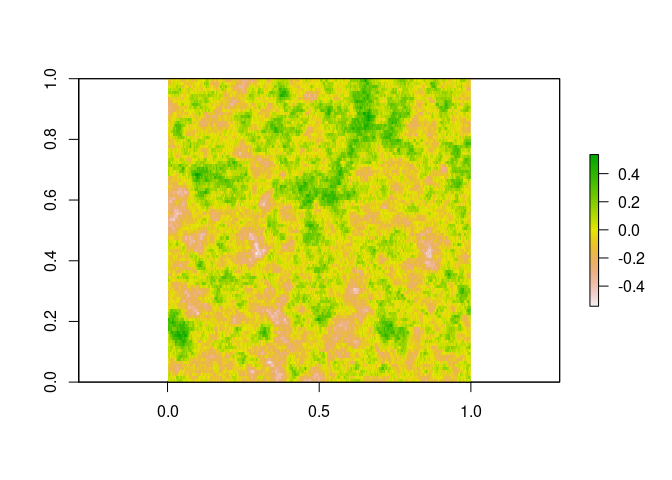
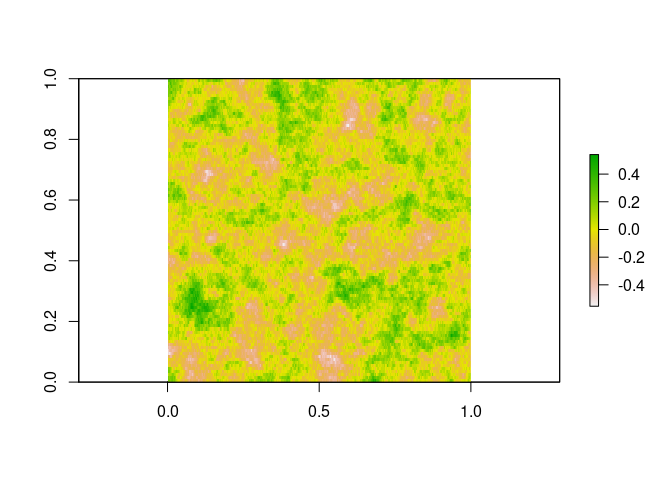
fixed some animation code

diff --git a/animated_tree.md b/animated_tree.md
@@ -23,81 +23,21 @@ fractal_tree <- random_trees(splits = 8, children = 2, angle = pi/4, scale_angle
 
 # Swaying Tree
 
-``` r
-swaying_tree <- function(fractal_tree, var = 0.02, scale = 0.4){
+Generates a random field to create a GIF animation of a tree “swaying”
+in the wind.
 
-  xlim <- c((min(fractal_tree$tree$X) - 0.1*abs(min(fractal_tree$tree$X))),
-            (max(fractal_tree$tree$X) + 0.1*abs(max(fractal_tree$tree$X))))
-  ylim <- c((min(fractal_tree$tree$Z) - 0.1*abs(min(fractal_tree$tree$Z))),
-            (max(fractal_tree$tree$Z) + 0.1*abs(max(fractal_tree$tree$Z))))
-  
-  level_gen_size <- fractal_tree$fun_variables$level_gen_size
-  branch_count <- fractal_tree$fun_variables$branch_count
-  children <- fractal_tree$fun_variables$children
-  splits <- fractal_tree$fun_variables$splits
-  family_tree <- fractal_tree$fun_variables$family_tree
-  branch_route_count <- fractal_tree$fun_variables$branch_route_count
-  
-  model <- RandomFields::RMexp(var = var, scale = scale)
-  
-  x <- seq(0, 10, length.out = 50)
-  y <- seq(0, 10, length.out = branch_count)
-  simu <- suppressMessages(as.matrix(RandomFields::RFsimulate(model, x, y, grid=TRUE)))
-  
-  rename <- function(x){
-    return(name <- paste('00', x,'plot.png', sep=''))
-  }
-  
-  path <- fs::path("swaying_trees")
-  suppressMessages(usethis::use_directory(path))
-  
-  for(i in 0:49){
-    name <- rename(i+1)
-    wind_angles <- simu[i+1,]/
-      rep((fractal_tree$fun_variables$splits+1):1, times = c(1,cumprod(fractal_tree$fun_variables$children)))^1.8
-    
-    X_coords <- fractal_tree$fun_variables$unstacked_X_coords %*% diag(cos(c(wind_angles))) - 
-      fractal_tree$fun_variables$unstacked_Z_coords %*% diag(sin(c(wind_angles)))
-    Z_coords <- fractal_tree$fun_variables$unstacked_X_coords %*% diag(sin(c(wind_angles))) +
-      fractal_tree$fun_variables$unstacked_Z_coords %*% diag(cos(c(wind_angles)))
-    
-    branch_delta_X <- rep(c(0, X_coords[100,1:(sum(rev(level_gen_size)[-1]))]),
-                          c(1, rep(children, level_gen_size[-(splits+1)])))
-    X_matrix <- t(apply(matrix(branch_delta_X[family_tree], nrow = splits+1), 2, cumsum))
-    branch_start_X <- c(X_matrix)[cumsum(c(1,branch_route_count[-branch_count]))]
-    X_coords_stacked <- X_coords + matrix(rep(branch_start_X, each = 100), nrow = 100)
-    
-    branch_delta_Z <- rep(c(0, Z_coords[100,1:(sum(rev(level_gen_size)[-1]))]),
-                          c(1, rep(children, level_gen_size[-(splits+1)])))
-    Z_matrix <- t(apply(matrix(branch_delta_Z[family_tree], nrow = splits+1), 2, cumsum))
-    branch_start_Z <- c(Z_matrix)[cumsum(c(1,branch_route_count[-branch_count]))]
-    Z_coords_stacked <- Z_coords + matrix(rep(branch_start_Z, each = 100), nrow = 100)
-    
-    png(name)
-    par(mar=c(1,1,1,1))
-    plot(x = X_coords_stacked, y = Z_coords_stacked,
-         pch = 16, cex = fractal_tree$tree$thickness,
-         xaxt = "n", yaxt = "n", asp = 1,
-         xlab = NA, ylab = NA,
-         xlim = xlim, ylim = ylim)
-    
-    dev.off()
-  }
-  
-  #run ImageMagick
-  filename <- paste("swaying_tree_", gsub(" ", "_", format(Sys.time(), format = "%F %T %Z")),".gif", sep = "")
-  system(paste("convert *.png -delay 200x100 -loop 0 ", "swaying_trees/", filename, sep = ""))
-  #invisible(file.remove(list.files(pattern=".png")))
-  invisible(file.remove(list.files(pattern=".png")))
-  
-  rm(levels, family, xlim, ylim, X_coords, Z_coords, X_coords_stacked, 
-     Z_coords_stacked, model, branch_count, x, y, simu, file_name, name, wind_angles)
-  
-  return(noquote(paste("GIF file saved as ", filename, " in folder 'swaying_trees'.", sep = "")))
-}
+``` r
+swaying_tree(fractal_tree, var = 0.02, scale = 0.4)
 ```
 
-<img src="swaying_trees/swaying_tree_2020-12-02_14:54:08_PST.gif">
+    ## [1] GIF file saved as swaying_tree_2020-12-07_00:22:06_PST.gif in folder 'swaying_trees'.
+
+Example:
+
+<img src="swaying_trees/swaying_tree_2020-12-07_00:19:57_PST.gif">
+
+The object used to generate the “wind” is calculated in the manner
+below.
 
 ``` r
 model <- RandomFields::RMexp(var = 0.02, scale = 0.4)
@@ -111,80 +51,16 @@ raster::plot(raster::raster(simu))
 
 ![](animated_tree_files/figure-gfm/unnamed-chunk-4-1.png)<!-- -->
 
-``` r
-swaying_tree(fractal_tree, var = 0.02, scale = 0.4)
-```
-
-    ## Warning in rm(levels, family, xlim, ylim, X_coords, Z_coords,
-    ## X_coords_stacked, : object 'levels' not found
-
-    ## Warning in rm(levels, family, xlim, ylim, X_coords, Z_coords,
-    ## X_coords_stacked, : object 'family' not found
-
-    ## Warning in rm(levels, family, xlim, ylim, X_coords, Z_coords,
-    ## X_coords_stacked, : object 'file_name' not found
-
-    ## [1] GIF file saved as swaying_tree_2020-12-07_00:03:29_PST.gif in folder 'swaying_trees'.
-
 # Growing Tree
 
-``` r
-growing_tree <- function(fractal_tree){
-  
-  xlim <- c((min(fractal_tree$tree$X) - 0.1*abs(min(fractal_tree$tree$X))),
-            (max(fractal_tree$tree$X) + 0.1*abs(max(fractal_tree$tree$X))))
-  ylim <- c((min(fractal_tree$tree$Z) - 0.1*abs(min(fractal_tree$tree$Z))),
-            (max(fractal_tree$tree$Z) + 0.1*abs(max(fractal_tree$tree$Z))))
-  
-  branch_count <- fractal_tree$fun_variables$branch_count
-  splits <- fractal_tree$fun_variables$splits
-  level_gen_size <- fractal_tree$fun_variables$level_gen_size
-  
-  frames <- t(matrix(1:(5*(splits+1)), nrow = 5))
-  grow_index <- rep(unlist(lapply(1:(splits+1), function(x) rep(frames[x,], level_gen_size[x]))), each = 20)
-  
-  fractal_tree$tree$grow_index <- grow_index
-  
-  rename <- function(x){
-    return(name <- paste('00', x,'plot.png', sep=''))
-  }
-  
-  path <- fs::path("growing_trees")
-  suppressMessages(usethis::use_directory(path))
-  
-  for(i in 1:max(frames)){
-    name <- rename(i)
-    
-    tree <- fractal_tree$tree[which(fractal_tree$tree$grow_index < i+1),]
-    
-    png(name)
-    par(mar=c(1,1,1,1))
-    plot(x = tree$X, 
-         y = tree$Z,
-         pch = 16, cex = tree$thickness,
-         xaxt = "n", yaxt = "n", asp = 1,
-         xlab = NA, ylab = NA,
-         xlim = xlim, ylim = ylim)
-    
-    dev.off()
-  }
-  
-  #run ImageMagick
-  filename <- paste("growing_tree_", gsub(" ", "_", format(Sys.time(), format = "%F %T %Z")),".gif", sep = "")
-  system(paste("convert *.png -delay 200x100 -loop 0 ", "growing_trees/", filename, sep = ""))
-  #invisible(file.remove(list.files(pattern=".png")))
-  invisible(file.remove(list.files(pattern=".png")))
-  
-  rm(tree, grow_index, frames)
-  
-  return(noquote(paste("GIF file saved as ", filename, " in folder 'growing_trees'.", sep = "")))
-}
-```
+Produces a GIF animation of a “growing” tree
 
 ``` r
 growing_tree(fractal_tree)
 ```
 
-    ## [1] GIF file saved as growing_tree_2020-12-07_00:03:30_PST.gif in folder 'growing_trees'.
+    ## [1] GIF file saved as growing_tree_2020-12-07_00:22:08_PST.gif in folder 'growing_trees'.
 
-<img src="growing_trees/growing_tree_2020-12-06_23:53:59_PST.gif">
+Example:
+
+<img src="growing_trees/growing_tree_2020-12-07_00:11:37_PST.gif">
